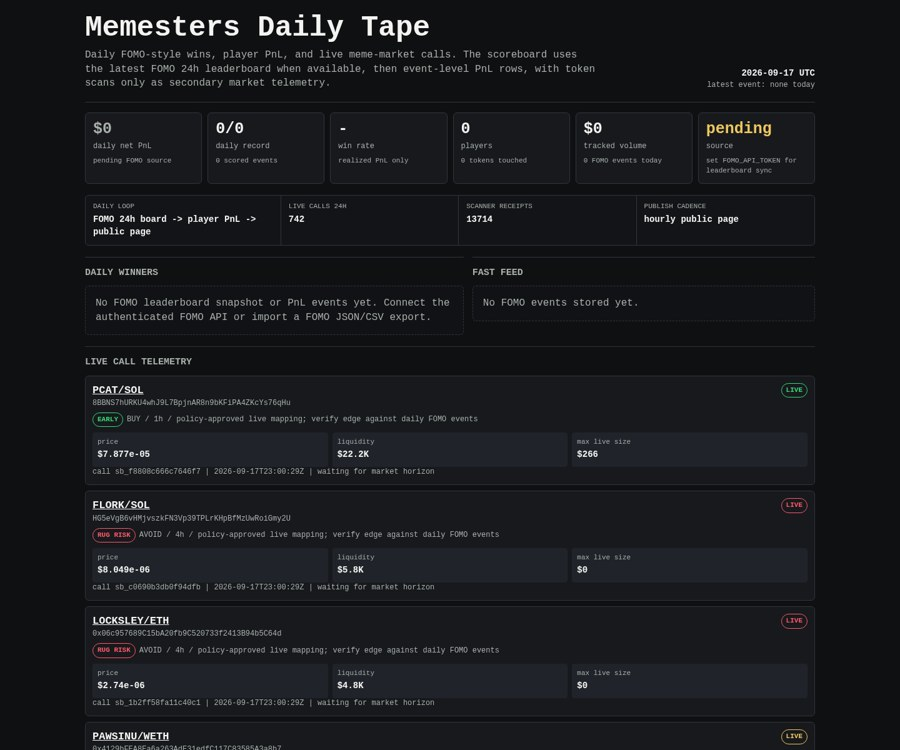
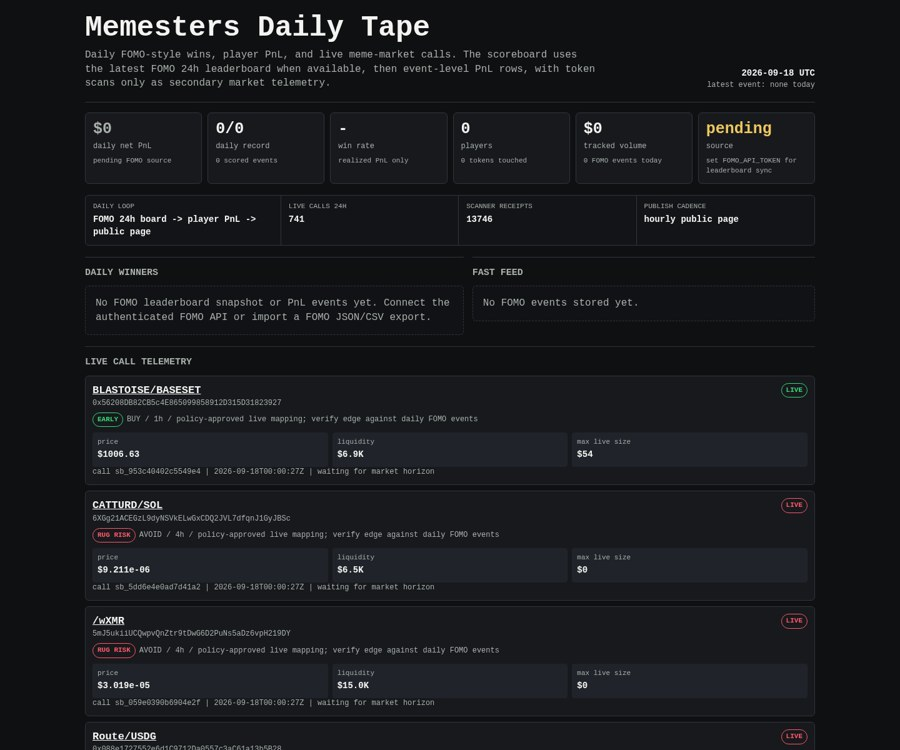
Update Memesters scoreboard

diff --git a/memesters/index.html b/memesters/index.html
@@ -135,7 +135,7 @@
         <h1>Memesters Daily Tape</h1>
         <p class="sub">Daily FOMO-style wins, player PnL, and live meme-market calls. The scoreboard uses the latest FOMO 24h leaderboard when available, then event-level PnL rows, with token scans only as secondary market telemetry.</p>
       </div>
-      <div class="stamp"><b>2026-09-17 UTC</b>latest event: none today</div>
+      <div class="stamp"><b>2026-09-18 UTC</b>latest event: none today</div>
     </header>
 
     <div class="metrics" aria-label="daily scoreboard totals">
@@ -149,8 +149,8 @@
 
     <div class="rail" aria-label="live operating loop">
       <div><span>daily loop</span><b>FOMO 24h board -> player PnL -> public page</b></div>
-      <div><span>live calls 24h</span><b>742</b></div>
-      <div><span>scanner receipts</span><b>13714</b></div>
+      <div><span>live calls 24h</span><b>741</b></div>
+      <div><span>scanner receipts</span><b>13746</b></div>
       <div><span>publish cadence</span><b>hourly public page</b></div>
     </div>
 
@@ -171,8 +171,8 @@
     <article class="receipt">
       <div class="receipt-head">
         <div>
-          <div class="pair"><a href="https://dexscreener.com/solana/gvjva5ptgsphlyk3h6dgjv5uxsk8gzkqccpuatqq3zj5">PCAT/SOL</a></div>
-          <div class="addr">8BBNS7hURKU4whJ9L7BpjnAR8n9bKFiPA4ZKcYs76qHu</div>
+          <div class="pair"><a href="https://dexscreener.com/robinhood/0xb2b9b814afc6c52800610db255ad45ee3bd2812bce92403f9e7a985f629f2625">BLASTOISE/BASESET</a></div>
+          <div class="addr">0x56208DB82CB5c4E865099858912D315D31823927</div>
           <div class="addr policy-line">
             <span class="badge early">EARLY</span>
             <span>BUY / 1h / policy-approved live mapping; verify edge against daily FOMO events</span>
@@ -181,19 +181,19 @@
         <span class="badge early">LIVE</span>
       </div>
       <div class="receipt-grid">
-        <div class="kv"><span>price</span><b>$7.877e-05</b></div>
-        <div class="kv"><span>liquidity</span><b>$22.2K</b></div>
-        <div class="kv"><span>max live size</span><b>$266</b></div>
+        <div class="kv"><span>price</span><b>$1006.63</b></div>
+        <div class="kv"><span>liquidity</span><b>$6.9K</b></div>
+        <div class="kv"><span>max live size</span><b>$54</b></div>
       </div>
-      <div class="outcomes">call sb_f8808c666c7646f7 | 2026-09-17T23:00:29Z | waiting for market horizon</div>
+      <div class="outcomes">call sb_953c40402c5549e4 | 2026-09-18T00:00:27Z | waiting for market horizon</div>
     </article>
     
 
     <article class="receipt">
       <div class="receipt-head">
         <div>
-          <div class="pair"><a href="https://dexscreener.com/solana/ejd4mvpsfnun1wyqsqfpus8cte4g6qakubt7rgzn4mjq">FLORK/SOL</a></div>
-          <div class="addr">HG5eVgB6vHMjvszkFN3Vp39TPLrKHpBfMzUwRoiGmy2U</div>
+          <div class="pair"><a href="https://dexscreener.com/solana/cv2lpseup4sbfcwwvyhkcrvzlaxk52rnntq5nixdgjhu">CATTURD/SOL</a></div>
+          <div class="addr">6XGg21ACEGzL9dyNSVkELwGxCDQ2JVL7dfqnJ1GyJBSc</div>
           <div class="addr policy-line">
             <span class="badge rug-risk">RUG RISK</span>
             <span>AVOID / 4h / policy-approved live mapping; verify edge against daily FOMO events</span>
@@ -202,19 +202,19 @@
         <span class="badge rug-risk">LIVE</span>
       </div>
       <div class="receipt-grid">
-        <div class="kv"><span>price</span><b>$8.049e-06</b></div>
-        <div class="kv"><span>liquidity</span><b>$5.8K</b></div>
+        <div class="kv"><span>price</span><b>$9.211e-06</b></div>
+        <div class="kv"><span>liquidity</span><b>$6.5K</b></div>
         <div class="kv"><span>max live size</span><b>$0</b></div>
       </div>
-      <div class="outcomes">call sb_c0690b3db0f94dfb | 2026-09-17T23:00:29Z | waiting for market horizon</div>
+      <div class="outcomes">call sb_5dd6e4e0ad7d41a2 | 2026-09-18T00:00:27Z | waiting for market horizon</div>
     </article>
     
 
     <article class="receipt">
       <div class="receipt-head">
         <div>
-          <div class="pair"><a href="https://dexscreener.com/robinhood/0x390c17c244af3704260f5beac62caad3a5a1e9108f677e2f56c99716c64daa64">LOCKSLEY/ETH</a></div>
-          <div class="addr">0x06c957689C15bA20fb9C520733f2413B94b5C64d</div>
+          <div class="pair"><a href="https://dexscreener.com/solana/aw3tkzzj6fkvp6fe4qhnygvfbheppcu412udswt4vynb">/wXMR</a></div>
+          <div class="addr">5mJ5ukiiUCQwpvQnZtr9tDwG6D2PuNs5aDz6vpH219DY</div>
           <div class="addr policy-line">
             <span class="badge rug-risk">RUG RISK</span>
             <span>AVOID / 4h / policy-approved live mapping; verify edge against daily FOMO events</span>
@@ -223,19 +223,40 @@
         <span class="badge rug-risk">LIVE</span>
       </div>
       <div class="receipt-grid">
-        <div class="kv"><span>price</span><b>$2.74e-06</b></div>
-        <div class="kv"><span>liquidity</span><b>$4.8K</b></div>
+        <div class="kv"><span>price</span><b>$3.019e-05</b></div>
+        <div class="kv"><span>liquidity</span><b>$15.0K</b></div>
         <div class="kv"><span>max live size</span><b>$0</b></div>
       </div>
-      <div class="outcomes">call sb_1b2ff58fa11c40c1 | 2026-09-17T23:00:29Z | waiting for market horizon</div>
+      <div class="outcomes">call sb_059e0390b6904e2f | 2026-09-18T00:00:27Z | waiting for market horizon</div>
     </article>
     
 
     <article class="receipt">
       <div class="receipt-head">
         <div>
-          <div class="pair"><a href="https://dexscreener.com/robinhood/0x2ad2e2ec3949a591032d389d5c3b13b4264e920b">PAWSINU/WETH</a></div>
-          <div class="addr">0x4129bFEA8Ea6a263AdE31edfC117C83585A3a8b7</div>
+          <div class="pair"><a href="https://dexscreener.com/robinhood/0x06eb5b6b392aba0e69bfe139cb98bf89b7c2107708da90d35e13e5da04b68dc0">Route/USDG</a></div>
+          <div class="addr">0x088e1727552e6d1C9712Da0557c3aC61a13b5B28</div>
+          <div class="addr policy-line">
+            <span class="badge rug-risk">RUG RISK</span>
+            <span>AVOID / 4h / policy-approved live mapping; verify edge against daily FOMO events</span>
+          </div>
+        </div>
+        <span class="badge rug-risk">LIVE</span>
+      </div>
+      <div class="receipt-grid">
+        <div class="kv"><span>price</span><b>$3.371e-06</b></div>
+        <div class="kv"><span>liquidity</span><b>$4.7K</b></div>
+        <div class="kv"><span>max live size</span><b>$0</b></div>
+      </div>
+      <div class="outcomes">call sb_0871066314e1423a | 2026-09-18T00:00:27Z | waiting for market horizon</div>
+    </article>
+    
+
+    <article class="receipt">
+      <div class="receipt-head">
+        <div>
+          <div class="pair"><a href="https://dexscreener.com/solana/6bd8n8bwtqytegqdhcl5hgqgpf2xtqsr6dsgtkv9hmqm">XCAT/wXMR</a></div>
+          <div class="addr">HhRCWrgTZnTtHqop5wRLyD2ps1UNgKhnG8WhVQNMSTNK</div>
           <div class="addr policy-line">
             <span class="badge chase">CHASE</span>
             <span>AVOID / 4h / policy-approved live mapping; verify edge against daily FOMO events</span>
@@ -244,19 +265,19 @@
         <span class="badge chase">LIVE</span>
       </div>
       <div class="receipt-grid">
-        <div class="kv"><span>price</span><b>$0.001807</b></div>
-        <div class="kv"><span>liquidity</span><b>$141.7K</b></div>
+        <div class="kv"><span>price</span><b>$0.0001867</b></div>
+        <div class="kv"><span>liquidity</span><b>$39.1K</b></div>
         <div class="kv"><span>max live size</span><b>$0</b></div>
       </div>
-      <div class="outcomes">call sb_7523ff6e521240ac | 2026-09-17T23:00:29Z | waiting for market horizon</div>
+      <div class="outcomes">call sb_d9667715dfff4d5f | 2026-09-18T00:00:27Z | waiting for market horizon</div>
     </article>
     
 
     <article class="receipt">
       <div class="receipt-head">
         <div>
-          <div class="pair"><a href="https://dexscreener.com/solana/8rwhwrqfssvc345hypcbmkcbikjvtavt9szczrgo2nrr">剑与盾/ZEC</a></div>
-          <div class="addr">2Rfi88vZPifPmutcpPiZ17JFfvn8BqgsHm5vt7Qax1TG</div>
+          <div class="pair"><a href="https://dexscreener.com/solana/7d9yyxsysaqx5fsdnekx18dvbyed9yfu7cz4ypmpkced">everybdy/SOL</a></div>
+          <div class="addr">fe2p5jhe6NK3pXaDqUkWUwMBPRRZ9knxW9z3Pd2pump</div>
           <div class="addr policy-line">
             <span class="badge rug-risk">RUG RISK</span>
             <span>AVOID / 4h / policy-approved live mapping; verify edge against daily FOMO events</span>
@@ -265,19 +286,19 @@
         <span class="badge rug-risk">LIVE</span>
       </div>
       <div class="receipt-grid">
-        <div class="kv"><span>price</span><b>$1.519e-05</b></div>
-        <div class="kv"><span>liquidity</span><b>$11.7K</b></div>
+        <div class="kv"><span>price</span><b>$3.394e-06</b></div>
+        <div class="kv"><span>liquidity</span><b>$3.2K</b></div>
         <div class="kv"><span>max live size</span><b>$0</b></div>
       </div>
-      <div class="outcomes">call sb_dcbb0b5548d04a33 | 2026-09-17T23:00:28Z | waiting for market horizon</div>
+      <div class="outcomes">call sb_4eec3927026540a9 | 2026-09-18T00:00:27Z | waiting for market horizon</div>
     </article>
     
 
     <article class="receipt">
       <div class="receipt-head">
         <div>
-          <div class="pair"><a href="https://dexscreener.com/robinhood/0x11da1b31cb5ed8bd1663eb468d770ff8673808418a72f73359aad915979a0a31">CLUB/ETH</a></div>
-          <div class="addr">0x340b7b7990f859A25Ee7a206ba215C23E67b8F71</div>
+          <div class="pair"><a href="https://dexscreener.com/solana/3j7kajv75eqgtgkr6rveoeq7pdkseqz1zftvmmmqujeq">OnlyCat/SOL</a></div>
+          <div class="addr">9wuySuPDAMydD2ko7FuSreQAJM91xGC17Aoje2o2pump</div>
           <div class="addr policy-line">
             <span class="badge rug-risk">RUG RISK</span>
             <span>AVOID / 4h / policy-approved live mapping; verify edge against daily FOMO events</span>
@@ -286,40 +307,40 @@
         <span class="badge rug-risk">LIVE</span>
       </div>
       <div class="receipt-grid">
-        <div class="kv"><span>price</span><b>$2.212e-05</b></div>
-        <div class="kv"><span>liquidity</span><b>$13.6K</b></div>
+        <div class="kv"><span>price</span><b>$2.021e-06</b></div>
+        <div class="kv"><span>liquidity</span><b>$2.1K</b></div>
         <div class="kv"><span>max live size</span><b>$0</b></div>
       </div>
-      <div class="outcomes">call sb_b70da18d01d84a30 | 2026-09-17T23:00:28Z | waiting for market horizon</div>
+      <div class="outcomes">call sb_38be97049bfa474e | 2026-09-18T00:00:27Z | waiting for market horizon</div>
     </article>
     
 
     <article class="receipt">
       <div class="receipt-head">
         <div>
-          <div class="pair"><a href="https://dexscreener.com/solana/8rlmob9ffktb3uddievqppvdudwj5jpl52nqd6ybjeek">MOONSHOT/SOL</a></div>
-          <div class="addr">73nBoTeEAJAWaNP8ayTDUZbx6ag3JcHm4CPxGi8Tpump</div>
+          <div class="pair"><a href="https://dexscreener.com/solana/9vwf8jafl9lk3qurugiffk1v1cmthp3oscpwkhpeuufl">YEC/SOL</a></div>
+          <div class="addr">8or2ciXNyUiYH86K7NMTejLrFEWiViH8DvGkQKW11YXZ</div>
           <div class="addr policy-line">
-            <span class="badge early">EARLY</span>
-            <span>BUY / 1h / policy-approved live mapping; verify edge against daily FOMO events</span>
+            <span class="badge rug-risk">RUG RISK</span>
+            <span>AVOID / 4h / policy-approved live mapping; verify edge against daily FOMO events</span>
           </div>
         </div>
-        <span class="badge early">LIVE</span>
+        <span class="badge rug-risk">LIVE</span>
       </div>
       <div class="receipt-grid">
-        <div class="kv"><span>price</span><b>$0.0001424</b></div>
-        <div class="kv"><span>liquidity</span><b>$30.5K</b></div>
-        <div class="kv"><span>max live size</span><b>$366</b></div>
+        <div class="kv"><span>price</span><b>$1.38e-05</b></div>
+        <div class="kv"><span>liquidity</span><b>$8.2K</b></div>
+        <div class="kv"><span>max live size</span><b>$0</b></div>
       </div>
-      <div class="outcomes">call sb_9d6520e0a56b4873 | 2026-09-17T23:00:28Z | waiting for market horizon</div>
+      <div class="outcomes">call sb_57d62bc9766e4f6a | 2026-09-18T00:00:27Z | waiting for market horizon</div>
     </article>
     
 
     <article class="receipt">
       <div class="receipt-head">
         <div>
-          <div class="pair"><a href="https://dexscreener.com/robinhood/0x2b598987c75097fbbb0ab83853fe65b9e08461e60efe2d3a1f61ef66d6337202">Nautilo/WETH</a></div>
-          <div class="addr">0xC1fC7210Cb7E38d255fE4F2fddc9043c9aB6dCE4</div>
+          <div class="pair"><a href="https://dexscreener.com/arc/0x170aaa17376cc122fd23136e9edd7ed5d4b2b91eb532c4e0ee0062fe419d8654">M69/USDC</a></div>
+          <div class="addr">0x20b4Be7dF8E79D75207339dBD4d8498B6eA93E69</div>
           <div class="addr policy-line">
             <span class="badge chase">CHASE</span>
             <span>AVOID / 4h / policy-approved live mapping; verify edge against daily FOMO events</span>
@@ -328,19 +349,19 @@
         <span class="badge chase">LIVE</span>
       </div>
       <div class="receipt-grid">
-        <div class="kv"><span>price</span><b>$5.944e-05</b></div>
-        <div class="kv"><span>liquidity</span><b>$51.8K</b></div>
+        <div class="kv"><span>price</span><b>$4.563e-08</b></div>
+        <div class="kv"><span>liquidity</span><b>$17.6K</b></div>
         <div class="kv"><span>max live size</span><b>$0</b></div>
       </div>
-      <div class="outcomes">call sb_fa3c2d75d123404a | 2026-09-17T22:45:25Z | waiting for market horizon</div>
+      <div class="outcomes">call sb_dfb1e9afdb96489c | 2026-09-17T23:45:20Z | waiting for market horizon</div>
     </article>
     
 
     <article class="receipt">
       <div class="receipt-head">
         <div>
-          <div class="pair"><a href="https://dexscreener.com/robinhood/0xdab502d437370dfef85c1fbda4ad71c282cbe71f117627bce2fce90bd1b9d7e6">DEVINCI/ETH</a></div>
-          <div class="addr">0xD9EAE7FF29d6E4A25478534c9fB0B4632551Ca8E</div>
+          <div class="pair"><a href="https://dexscreener.com/solana/hv1xwehtnaymni13aonseyadzd6jmc2byqw7mur9tq7c">TipTok/SOL</a></div>
+          <div class="addr">DrQsc1CLbcxNYx9WBcKXg7ZR48XoYuDhU1a6gjKapump</div>
           <div class="addr policy-line">
             <span class="badge rug-risk">RUG RISK</span>
             <span>AVOID / 4h / policy-approved live mapping; verify edge against daily FOMO events</span>
@@ -349,32 +370,11 @@
         <span class="badge rug-risk">LIVE</span>
       </div>
       <div class="receipt-grid">
-        <div class="kv"><span>price</span><b>$1.396e-05</b></div>
-        <div class="kv"><span>liquidity</span><b>$10.8K</b></div>
+        <div class="kv"><span>price</span><b>$3.026e-06</b></div>
+        <div class="kv"><span>liquidity</span><b>$2.9K</b></div>
         <div class="kv"><span>max live size</span><b>$0</b></div>
       </div>
-      <div class="outcomes">call sb_a64cc9202389485f | 2026-09-17T22:45:25Z | waiting for market horizon</div>
-    </article>
-    
-
-    <article class="receipt">
-      <div class="receipt-head">
-        <div>
-          <div class="pair"><a href="https://dexscreener.com/robinhood/0xe3192e513d081cc1a688d21a3059b03a761ce5bac4ed58f9000a785a64919238">BONK/ETH</a></div>
-          <div class="addr">0xa54C5878fEAEfD6105e5c7854E54aBD30742A904</div>
-          <div class="addr policy-line">
-            <span class="badge chase">CHASE</span>
-            <span>AVOID / 4h / policy-approved live mapping; verify edge against daily FOMO events</span>
-          </div>
-        </div>
-        <span class="badge chase">LIVE</span>
-      </div>
-      <div class="receipt-grid">
-        <div class="kv"><span>price</span><b>$0.001347</b></div>
-        <div class="kv"><span>liquidity</span><b>$109.7K</b></div>
-        <div class="kv"><span>max live size</span><b>$0</b></div>
-      </div>
-      <div class="outcomes">call sb_01e6204cab484ad1 | 2026-09-17T22:45:25Z | waiting for market horizon</div>
+      <div class="outcomes">call sb_f2f52b8726344bf6 | 2026-09-17T23:45:20Z | waiting for market horizon</div>
     </article>
     
     </section>
